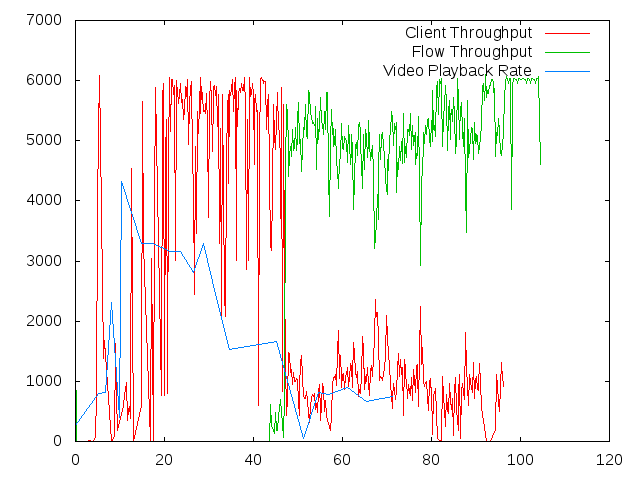
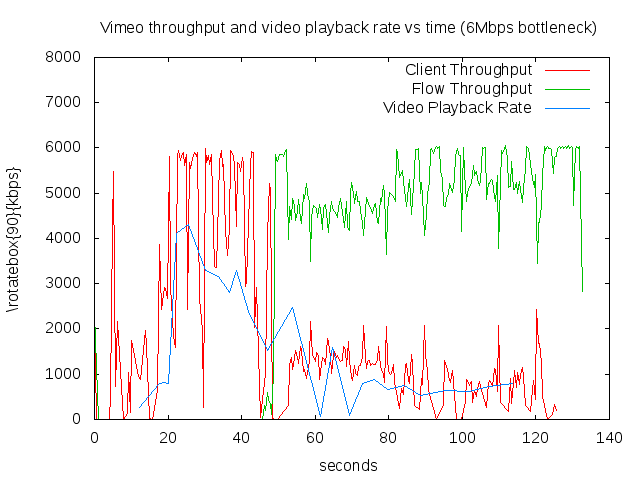
generate charts

diff --git a/mahimahi/filters/convert_playback_trace_vimeo.py b/mahimahi/filters/convert_playback_trace_vimeo.py
@@ -3,14 +3,17 @@ import json
 import sys
 import dateutil.parser
 
-SECS_PER_SEGMENT=4.0
+SECS_PER_SEGMENT=4.0 # this is a guess based on seeing 15 segments at 60 seconds
+
+time_file = open('data/vimeo_start_time')
+start_str = time_file.read()
+firstdt = (dateutil.parser.parse(start_str))
+time_file.close()
 
 f = open(sys.argv[1])
 js = json.load(f)
-firstdt = None
 for j in js:
     if j: 
         dt = dateutil.parser.parse(j["time"])
-        if not firstdt:
-            firstdt = dt
         print (dt-firstdt).total_seconds(), float(j["responseSize"])*8/1000/SECS_PER_SEGMENT # convert bytes to kbps
+f.close()

diff --git a/mahimahi/current_time.py b/mahimahi/current_time.py
@@ -1,0 +1,28 @@
+#!/usr/bin/env python
+import datetime
+import calendar
+
+# refer to https://stackoverflow.com/questions/2331592/datetime-datetime-utcnow-why-no-tzinfo/2331635#2331635
+from datetime import timedelta, tzinfo
+
+ZERO = timedelta(0)
+
+# A UTC class.
+
+class UTC(tzinfo):
+    """UTC"""
+
+    def utcoffset(self, dt):
+        return ZERO
+
+    def tzname(self, dt):
+        return "UTC"
+
+    def dst(self, dt):
+        return ZERO
+
+utc = UTC()
+
+
+dt = datetime.datetime.now(utc)
+print dt

diff --git a/mahimahi/filters/convert_mahimahi_to_graph_input.py b/mahimahi/filters/convert_mahimahi_to_graph_input.py
@@ -2,7 +2,7 @@
 import sys
 f = open(sys.argv[1])
 
-MIN_DELTA=200
+MIN_DELTA=400
 
 previous_time = 0
 num_bytes = 0
